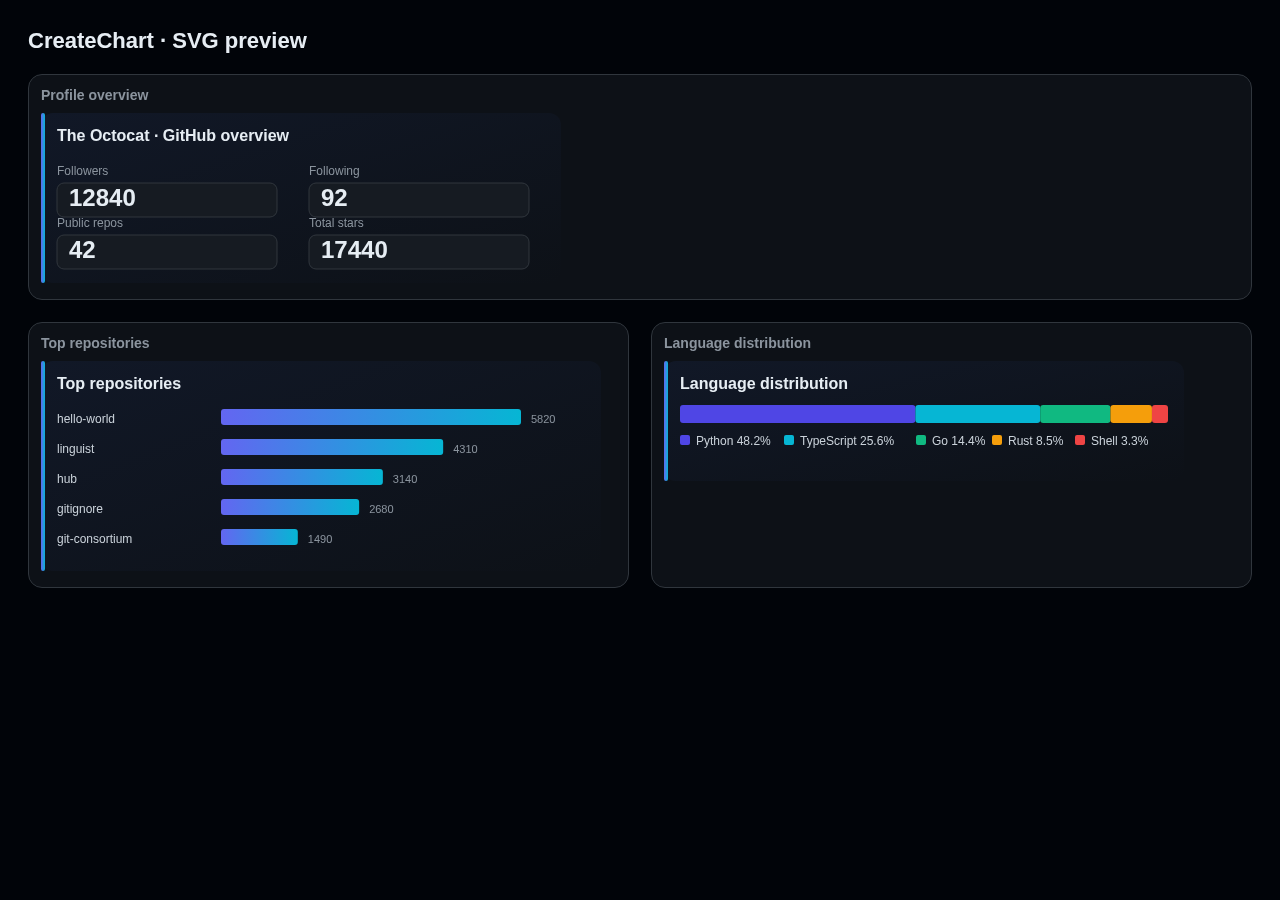
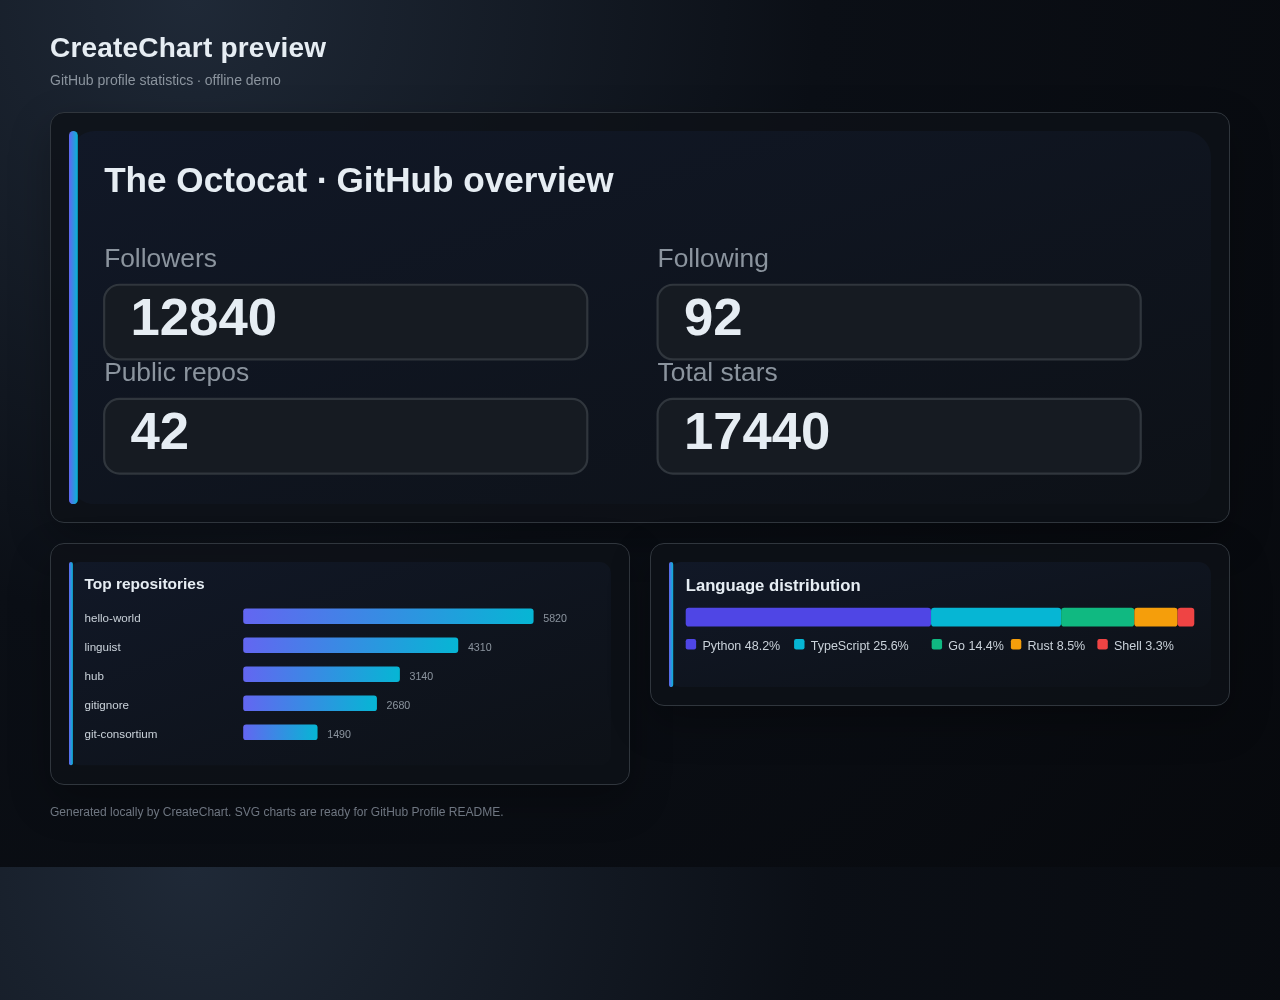
feat(demo): 添加完整预览页并更新截图

diff --git a/createchart/charts.py b/createchart/charts.py
@@ -141,8 +141,29 @@ def aggregate_languages(repos: Iterable[Dict[str, object]], languages_by_repo: D
 
 
 
+def demo_data() -> Tuple[Dict[str, object], List[Dict[str, object]], Dict[str, int]]:
+    """Return sample data used by the offline preview."""
+    user: Dict[str, object] = {
+        "login": "octocat",
+        "name": "The Octocat",
+        "followers": 12840,
+        "following": 92,
+        "public_repos": 42,
+    }
+    repos: List[Dict[str, object]] = [
+        {"name": "hello-world", "stargazers_count": 5820},
+        {"name": "linguist", "stargazers_count": 4310},
+        {"name": "hub", "stargazers_count": 3140},
+        {"name": "gitignore", "stargazers_count": 2680},
+        {"name": "git-consortium", "stargazers_count": 1490},
+    ]
+    languages = {"Python": 182000, "TypeScript": 96500, "Go": 54300, "Rust": 32100, "Shell": 12400}
+    return user, repos, languages
+
+
 def demo_charts() -> Dict[str, str]:
     """Build sample charts for local preview without network access."""
+    user, repos, languages = demo_data()
     user = {
         "login": "octocat",
         "name": "The Octocat",
@@ -163,3 +184,57 @@ def demo_charts() -> Dict[str, str]:
         "repos": repo_bars(repos),
         "languages": language_chart(languages, title="Language distribution"),
     }
+
+
+def preview_html(charts: Dict[str, str]) -> str:
+    """Wrap generated SVG charts into a single standalone preview page."""
+    title = escape("CreateChart · Preview")
+    return f"""<!doctype html>
+<html lang="en">
+<head>
+  <meta charset="utf-8">
+  <meta name="viewport" content="width=device-width, initial-scale=1">
+  <title>{title}</title>
+  <style>
+    * {{ box-sizing: border-box; }}
+    body {{
+      margin: 0;
+      padding: 32px 24px 48px;
+      background: radial-gradient(circle at 15% 0%, #1f2937 0, #0b0f16 45%, #07090d 100%);
+      color: #e6edf3;
+      font-family: -apple-system, BlinkMacSystemFont, "Segoe UI", sans-serif;
+    }}
+    main {{ max-width: 1180px; margin: 0 auto; }}
+    header {{ margin-bottom: 24px; }}
+    h1 {{ margin: 0 0 8px; font-size: 28px; letter-spacing: .2px; }}
+    .subtitle {{ color: #8b949e; font-size: 14px; }}
+    .grid {{ display: grid; grid-template-columns: repeat(2, minmax(0, 1fr)); gap: 20px; align-items: start; }}
+    .card {{
+      padding: 18px;
+      border: 1px solid #30363d;
+      border-radius: 14px;
+      background: rgba(13, 17, 23, .82);
+      box-shadow: 0 16px 40px rgba(0, 0, 0, .28);
+    }}
+    .card:first-child {{ grid-column: 1 / -1; }}
+    .card svg {{ display: block; width: 100%; height: auto; }}
+    footer {{ margin-top: 20px; color: #6e7681; font-size: 12px; }}
+    @media (max-width: 900px) {{ .grid {{ grid-template-columns: 1fr; }} .card:first-child {{ grid-column: auto; }} }}
+  </style>
+</head>
+<body>
+  <main>
+    <header>
+      <h1>CreateChart preview</h1>
+      <div class="subtitle">GitHub profile statistics · offline demo</div>
+    </header>
+    <section class="grid">
+      <div class="card">{charts["profile"]}</div>
+      <div class="card">{charts["repos"]}</div>
+      <div class="card">{charts["languages"]}</div>
+    </section>
+    <footer>Generated locally by CreateChart. SVG charts are ready for GitHub Profile README.</footer>
+  </main>
+</body>
+</html>
+"""

diff --git a/createchart/cli.py b/createchart/cli.py
@@ -8,7 +8,7 @@ import sys
 from pathlib import Path
 from typing import Dict
 
-from .charts import aggregate_languages, demo_charts, language_chart, profile_summary, repo_bars
+from .charts import aggregate_languages, demo_charts, language_chart, preview_html, profile_summary, repo_bars
 from .github_client import GitHubClient
 
 
@@ -20,6 +20,7 @@ def build_parser() -> argparse.ArgumentParser:
     parser.add_argument("--token", default=os.environ.get("GITHUB_TOKEN"), help="GitHub token (or set GITHUB_TOKEN)")
     parser.add_argument("--metric", default="stargazers_count", help="Repo ranking metric (e.g. stargazers_count, forks_count)")
     parser.add_argument("--repo-languages", action="store_true", help="Aggregate languages across up to 20 repos")
+    parser.add_argument("--preview-html", action="store_true", help="Also write preview.html (works with --demo)")
     return parser
 
 
@@ -28,9 +29,14 @@ def main(argv: list[str] | None = None) -> int:
     if args.demo:
         output = Path(args.output_dir)
         output.mkdir(parents=True, exist_ok=True)
-        for name, svg in demo_charts().items():
+        charts = demo_charts()
+        for name, svg in charts.items():
             (output / f"{name}.svg").write_text(svg, encoding="utf-8")
-        print(f"Wrote 3 demo charts to {output.resolve()}")
+        if args.preview_html:
+            (output / "preview.html").write_text(preview_html(charts), encoding="utf-8")
+            print(f"Wrote 3 demo charts and preview.html to {output.resolve()}")
+        else:
+            print(f"Wrote 3 demo charts to {output.resolve()}")
         return 0
 
     if not args.username:

diff --git a/tests/test_charts.py b/tests/test_charts.py
@@ -1,4 +1,4 @@
-from createchart.charts import aggregate_languages, language_chart, profile_summary, repo_bars
+from createchart.charts import aggregate_languages, language_chart, preview_html, profile_summary, repo_bars
 
 
 def test_language_chart_empty():
@@ -43,3 +43,11 @@ def test_demo_charts_returns_three_svg_files():
     charts = demo_charts()
     assert set(charts) == {"profile", "repos", "languages"}
     assert all(svg.startswith("<svg") and svg.endswith("</svg>") for svg in charts.values())
+
+
+def test_preview_html_wraps_all_charts():
+    html = preview_html({"profile": "<svg>p</svg>", "repos": "<svg>r</svg>", "languages": "<svg>l</svg>"})
+    assert "<html" in html
+    assert "<svg>p</svg>" in html
+    assert "<svg>r</svg>" in html
+    assert "<svg>l</svg>" in html

diff --git a/README.md b/README.md
@@ -43,11 +43,13 @@ createchart octocat --repo-languages
 
 ## Preview
 
-Run the offline demo to generate three sample charts:
+Run the offline demo to generate three sample charts and a standalone preview page:
 
 ```bash
-createchart --demo -o charts
+createchart --demo --preview-html -o charts
 ```
+
+Open `charts/preview.html` locally, or use this screenshot:
 
 ![CreateChart preview](createchart-preview.png)
 
